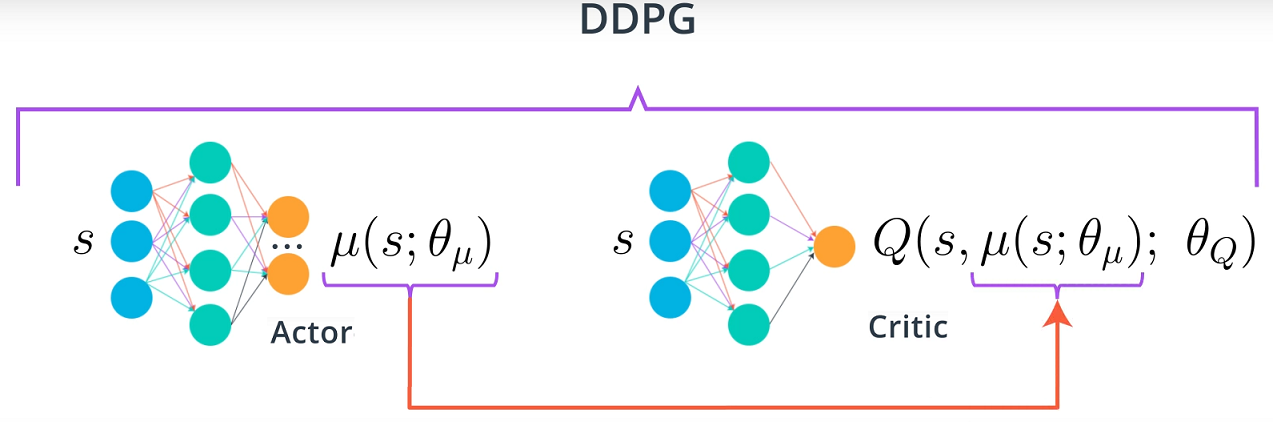
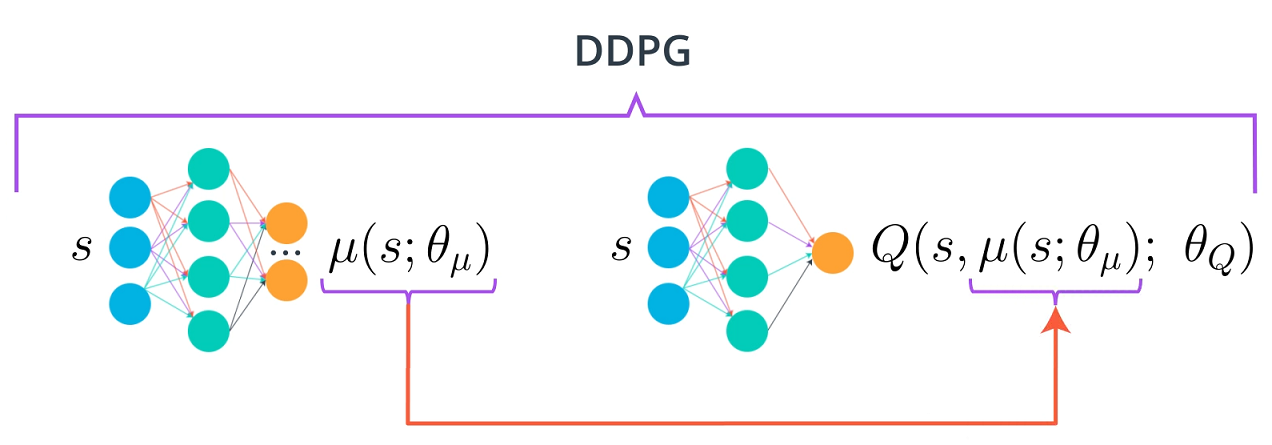
docs: Update content and Report

diff --git a/DDPG/Reacher/Report.md b/DDPG/Reacher/Report.md
@@ -19,7 +19,7 @@ In this project, implemented DDPG(Deep Deterministic Policy Gradient) algorithm 
 Policy-based methods are well-suited for continuous action spaces but it has several drawbacks suck as evaluating policy is generally inefficient and high variance. The Actor-Critic methods reduce variance with respect to pure policy search methods. It uses function approximation to learn a policy(Actor) and a value function(Critic).
 
 <p align="center">
-    <img src="../../assets/actor_critic.png" height="200px">
+    <img src="../../assets/actor_critic.png" height="220px">
 </p>
 
 The [DDPG](https://arxiv.org/abs/1509.02971) is off-policy Actor-Critic approach which combination of Policy learning method and Deep Q-Network(DQN). It maintains a parameterized actor function which specifies the current policy by deterministically mapping states to a specific action. The critic is learned using the Bellman equation as in Q-learning which evaluates the policy.
@@ -31,7 +31,7 @@ The [DDPG](https://arxiv.org/abs/1509.02971) is off-policy Actor-Critic approach
 Some other interesting aspects of the DDPG are shown below.
 
 <p align="center">
-    <img src="../../assets/ddpg_algorithm.png" height="400px">
+    <img src="../../assets/ddpg_algorithm.png" height="480px">
 </p>
 
 ## Result
